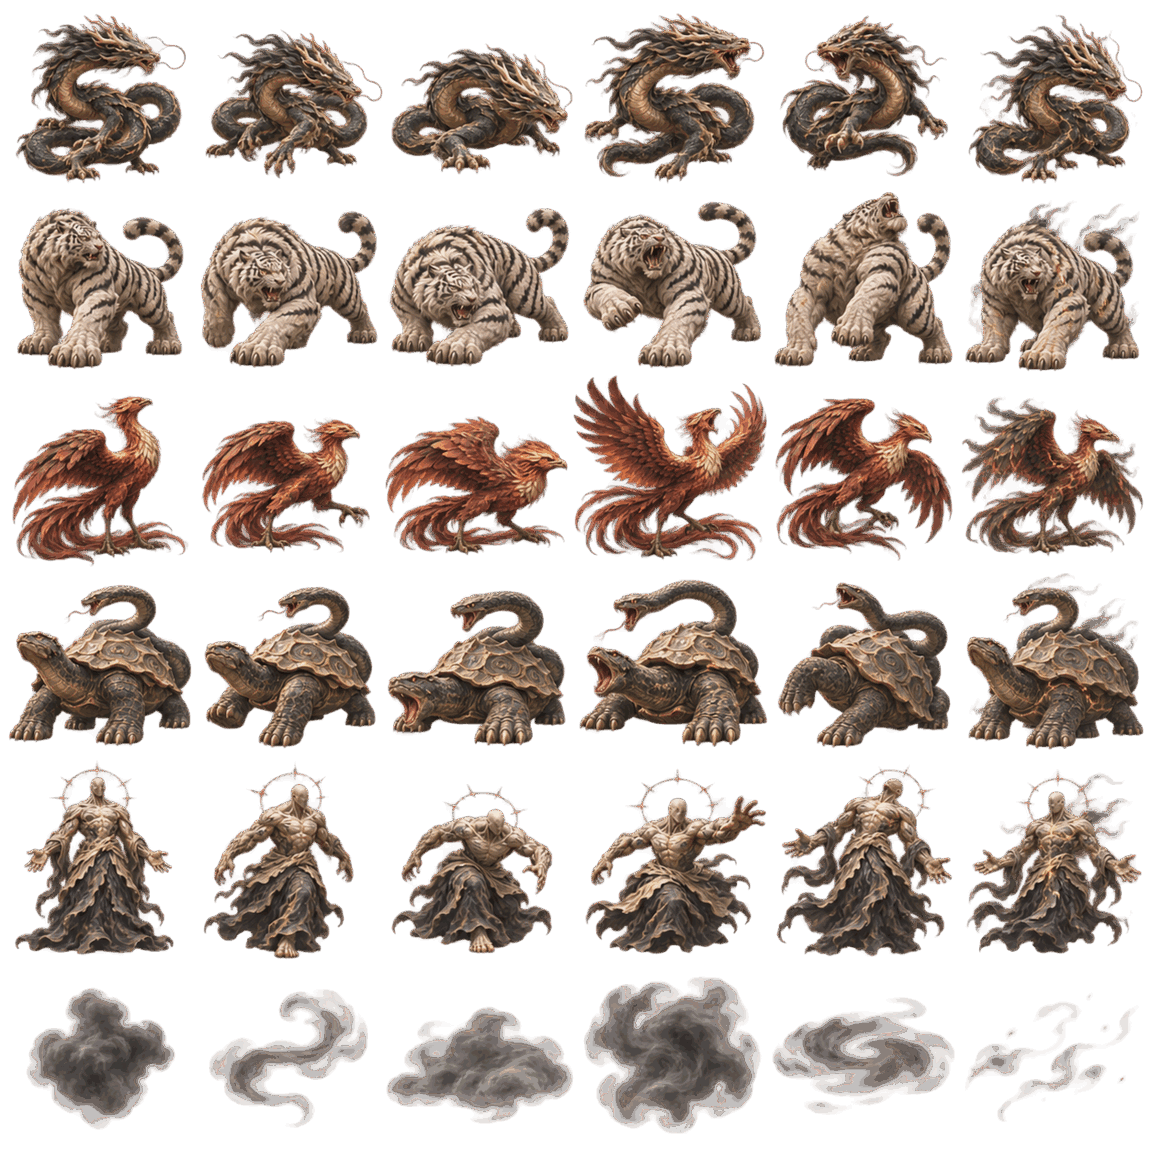
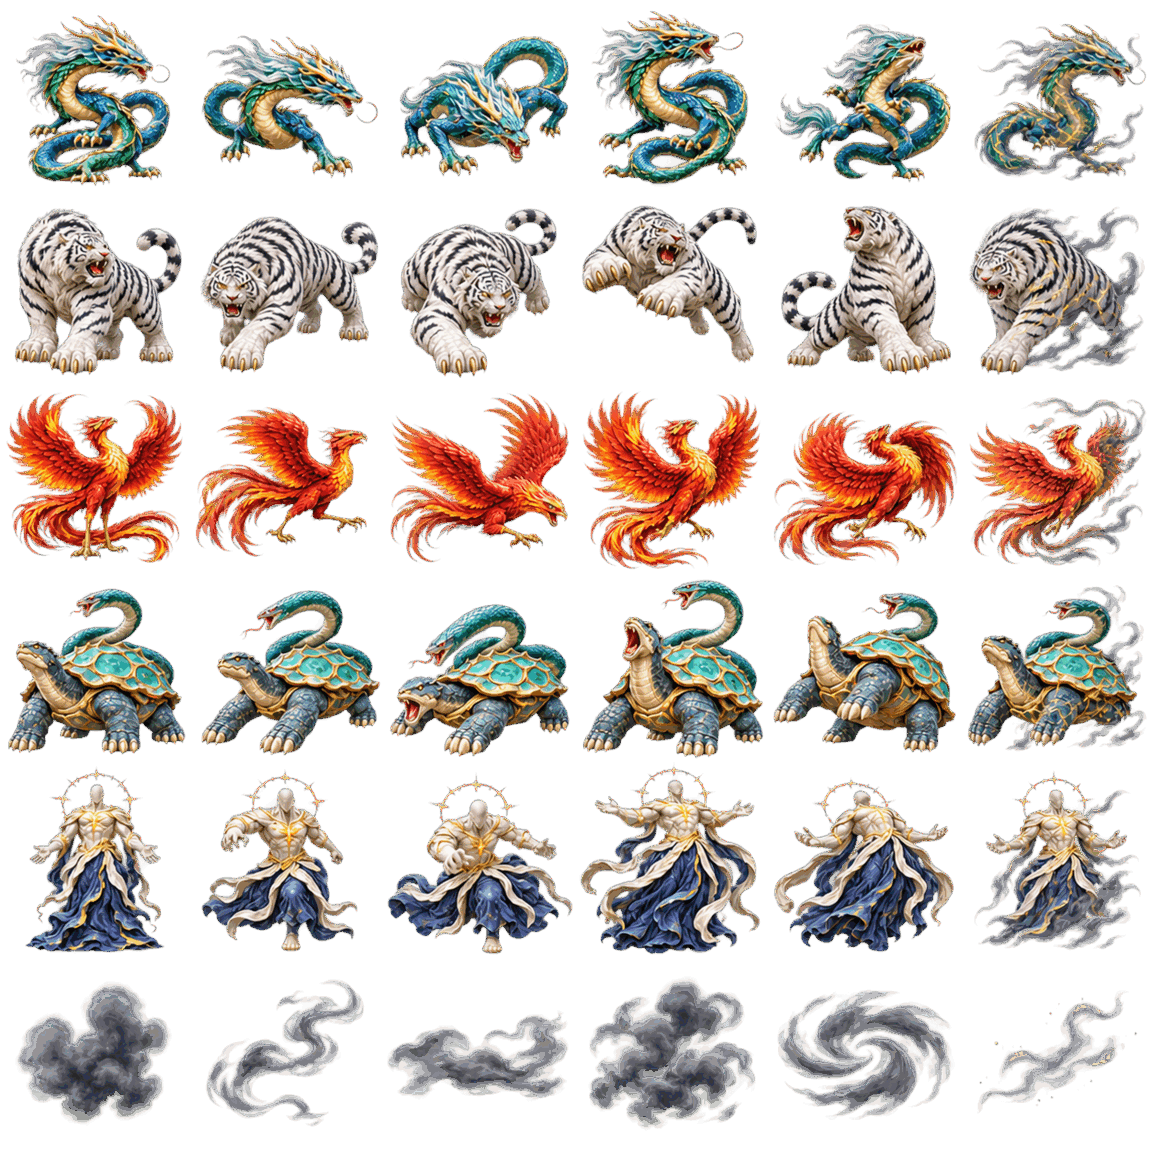
Apply vivid creature colors, growing dragon roots and phoenix meteor fire zones on codex/honghuang-boss-effects-20261106 (source only; no playtest upload)

diff --git a/game/core/combat.js b/game/core/combat.js
@@ -4,6 +4,7 @@
 const { ArtifactCombat } = require('./artifacts');
 const { BELL } = require('./bell');
 const { VINES, vineRadius } = require('./vines');
+const { METEOR, meteorPhase } = require('./meteor');
 const { advanceEnemyAnimation } = require('./enemy-animation');
 const STAGES = ['东方·初生之野', '西方·白骨战场', '南方·焚天熔界', '北方·归墟寒海', '天道之庭'];
 const BOSSES = ['青龙法相', '白虎法相', '朱雀法相', '玄武法相', '天道化身'];
@@ -25,7 +26,7 @@ const ENEMIES = [
   { id: 'charger', name: '裂界奔兽', hint: '长肢收拢蓄势，再沿锁定路线扑杀。横移躲开，趁落地停顿反击。' },
   { id: 'elite', name: '镇劫重兽', hint: '厚胸巨爪与肩部骨盾，蓄力引发落点震击。远离预警后再近身，击败得更多灵气。' },
   ...BOSSES.map((name, i) => ({ id: 'boss-' + (i + 1), name,
-    hint: ['藤蔓从落点中心向外生长，触及后短暂缠足。提前离开预警；半血后追加环形封路。', '扑杀前出现宽线预警。横向让开，半血后注意二连扑。', '火羽分批落地，离开火圈。半血后落点更多并留下火线。', '潮汐以环形扩散，向内或向外脱离。蓄力护甲结束后集中输出。', '轮换四象招式并以秩序封锁两侧。每次观察形状再寻找空隙。'][i] }))
+    hint: ['藤蔓从落点中心向外生长，触及后短暂缠足。提前离开预警；半血后追加环形封路。', '扑杀前出现宽线预警。横向让开，半血后注意二连扑。', '陨火先锁定落点，再砸地爆燃并留下燃烧区。半血后落点更多，避开火区寻找通道。', '潮汐以环形扩散，向内或向外脱离。蓄力护甲结束后集中输出。', '轮换四象招式并以秩序封锁两侧。每次观察形状再寻找空隙。'][i] }))
 ];
 const clamp = (value, min, max) => Math.max(min, Math.min(max, value));
 const round = value => Number(value.toFixed(2));
@@ -290,14 +291,14 @@ class Combat extends ArtifactCombat {
       const count = phase2 ? 5 : 3;
       for (let i = 0; i < count; i++) {
         const angle = i * Math.PI * 2 / count;
-        this.circle({ x: clamp(this.player.x + (i ? Math.cos(angle) * 115 / this.width * 100 : 0), 8, 92), y: clamp(this.player.y + (i ? Math.sin(angle) * 115 / this.height * 100 : 0), 12, 88) }, 62, 1.1 + i * 0.13, phase2 ? 3.2 : 2.4, '羽', 'flame', 11, owner);
+        this.hazard({ shape: 'circle', x: clamp(this.player.x + (i ? Math.cos(angle) * 115 / this.width * 100 : 0), 8, 92), y: clamp(this.player.y + (i ? Math.sin(angle) * 115 / this.height * 100 : 0), 12, 88), radius: 62, delay: 1.1 + i * 0.13, duration: phase2 ? 3.2 : 2.4, label: '陨', kind: 'flame', meteor: true, damage: METEOR.damage, burnDamage: METEOR.burnDamage, owner });
       }
       if (phase2) this.hazard({ shape: 'line', x: 0, y: 50, end: { x: 100, y: 50 }, width: 52, delay: 1.8, duration: 1.1, label: '焚', kind: 'flame', owner });
     } else {
       this.hazard({ shape: 'ring', x: center.x, y: center.y, radius: 225, inner: 150, delay: 1.25, duration: 1.3, label: '潮', kind: 'tide', damage: 10, owner, push: true });
       if (phase2) this.hazard({ shape: 'line', x: 0, y: this.player.y, end: { x: 100, y: this.player.y }, width: 60, delay: 1.6, duration: 1, label: '涌', kind: 'tide', owner, push: true });
     }
-    this.emit('cast', { name: e ? e.name : '劫境', pattern: ['藤蔓生长', '扑杀', '火羽落地', '潮汐扩散', '秩序封锁'][stage - 1] });
+    this.emit('cast', { name: e ? e.name : '劫境', pattern: ['藤蔓生长', '扑杀', '陨火坠地', '潮汐扩散', '秩序封锁'][stage - 1] });
   }
   contains(h, point) {
     if (h.shape === 'line') return segmentDistance(this.point(point), this.point(h), this.point(h.end)) <= h.width / 2;
@@ -324,7 +325,11 @@ class Combat extends ArtifactCombat {
             this.rootTime = VINES.bind; this.rootImmunity = VINES.immunity; this.rootSourceId = h.id; h.boundPlayer = true; this.emit('rooted');
           }
           if (h.dash) { const owner = this.enemies.find(e => e.id === h.owner); if (owner) owner.chargeHit = true; }
-          this.hurt(h.damage, h.label === '息' ? '吞灵吐息' : ({ root: '生息藤蔓', slash: '裂界扑杀', flame: '火羽焚地', tide: '归墟潮汐', order: '秩序封锁', arcane: '镇劫震击' }[h.kind] || '劫境法则'));
+          if (h.meteor) {
+            if (meteorPhase(h) === 'impact') {
+              if (!h.impactHit) { h.impactHit = true; this.hurt(h.damage, '陨火撞击'); }
+            } else this.hurt(h.burnDamage, '余烬焚地');
+          } else this.hurt(h.damage, h.label === '息' ? '吞灵吐息' : ({ root: '生息藤蔓', slash: '裂界扑杀', flame: '天火焚地', tide: '归墟潮汐', order: '秩序封锁', arcane: '镇劫震击' }[h.kind] || '劫境法则'));
           if (h.push) this.move(this.player, this.vector(h, this.player), 85 * dt);
         }
       }

diff --git a/cocos-project/assets/scripts/MeteorVfx.ts b/cocos-project/assets/scripts/MeteorVfx.ts
@@ -1,0 +1,44 @@
+import { UITransform } from 'cc';
+import { METEOR, meteorPhase } from './generated/game-core';
+const clamp = (n: number) => Math.max(0, Math.min(1, n));
+export function drawMeteor(v, layer, h, p) {
+  const g = layer.g, phase = meteorPhase(h), age = h.age - h.delay, r = h.radius;
+  const fade = phase === 'burning' ? clamp((h.delay + h.duration - h.age) / 0.3) : 1;
+  const tile = (id, index, x, y, w, height, alpha) => {
+    const sprite = v.image(layer, 'meteor-' + h.id + '-' + id, v.assets.frames.meteor[index], x, y, w, height, alpha);
+    sprite.node.getComponent(UITransform).setAnchorPoint(0.5, 0.5);
+  };
+  // The locked footprint is visible through warning, impact and burning.
+  g.lineStyle(phase === 'falling' ? 1.8 : 2.5, 0xff9e4e, fade * (phase === 'falling' ? 0.7 : 0.9)); g.drawCircle(p.x, p.y, r);
+  if (phase === 'falling') {
+    const warning = clamp(h.age / h.delay), t = clamp((warning - 0.15) / 0.85);
+    tile('target', 2, p.x, p.y, r * 1.25, r * 1.25, warning * 0.45);
+    g.lineStyle(1.5, 0xffc67a, 0.5); g.arc(p.x, p.y, r * 0.92, -Math.PI / 2, -Math.PI / 2 + Math.PI * 2 * warning);
+    if (warning > 0.15) {
+      const x = p.x + (1 - t * t) * r * 1.9, y = p.y - (1 - t * t) * r * 2.9;
+      tile('fall', 0, x + 9, y - 14, 76, 96, clamp(t * 4));
+    }
+    return;
+  }
+  const frame = Math.floor(Math.max(0, age) * 8) % 4;
+  tile('ground', 8 + frame, p.x, p.y, r * 2, r * 2, fade * (phase === 'impact' ? 0.6 : 0.95));
+  if (phase === 'impact') {
+    const t = clamp(age / METEOR.impactWindow);
+    tile('burst', 4 + Math.min(3, Math.floor(t * 4)), p.x, p.y - r * 0.25, r * 2.15, r * 2.4, 1 - t * 0.3);
+    g.lineStyle(6 * (1 - t) + 1, 0xffdf9b, (1 - t) * 0.85); g.drawCircle(p.x, p.y, Math.max(1, r * t));
+    for (let i = 0; i < 3; i++) {
+      const angle = i * Math.PI * 2 / 3 + h.id, distance = r * t * 0.65;
+      tile('debris-' + i, 3, p.x + Math.cos(angle) * distance, p.y + Math.sin(angle) * distance - Math.sin(t * Math.PI) * 24, 22, 22, (1 - t) * 0.85);
+    }
+  } else {
+    // Low, distributed flames keep the character and the whole footprint readable.
+    for (let i = 0; i < 3; i++) {
+      const angle = i * Math.PI * 2 / 3 + h.id;
+      tile('flames-' + i, 12 + (frame + i) % 4, p.x + Math.cos(angle) * r * 0.35, p.y + Math.sin(angle) * r * 0.3 - r * 0.12, r * 0.9, r * 0.6, fade * 0.65);
+    }
+    for (let i = 0; i < 6; i++) {
+      const t = (age * 0.6 + i / 6) % 1, angle = i * 2.4 + h.id;
+      g.lineStyle(0); g.beginFill(0xffb459, fade * (1 - t) * 0.6); g.drawCircle(p.x + Math.cos(angle) * r * 0.6, p.y + Math.sin(angle) * r * 0.4 - t * 24, 1.5); g.endFill();
+    }
+  }
+}

diff --git a/cocos-project/assets/scripts/GameAssets.ts b/cocos-project/assets/scripts/GameAssets.ts
@@ -1,6 +1,6 @@
 import { assetManager, AssetManager, AudioClip, ImageAsset, Rect, Size, SpriteFrame, Texture2D } from 'cc';
 import { ARTIFACT_COLUMNS } from './generated/game-core';
-const paths: Record<string, string> = { title: 'titile-bg', enemies: 'enemy-actions', bosses: 'chaos-boss-actions', spellAtlas: 'boss-actions', bell: 'chaos-bell', ending: 'ending-dawn', artifact: 'pangu/artifact-cast' };
+const paths: Record<string, string> = { title: 'titile-bg', enemies: 'enemy-actions', bosses: 'chaos-boss-actions', spellAtlas: 'boss-actions', bell: 'chaos-bell', meteor: 'phoenix-meteor', ending: 'ending-dawn', artifact: 'pangu/artifact-cast' };
 for (let i = 1; i <= 5; i++) { paths['arena' + i] = 'arena-' + i; paths['boss' + i] = 'boss-' + i; }
 for (const kind of ['power', 'haste', 'health', 'fire', 'water', 'earth']) paths['upgrade-' + kind] = 'upgrade-' + kind;
 for (const action of ['idle', 'move', 'attack', 'hurt', 'awaken', 'death']) paths[action] = 'pangu/' + action;
@@ -9,7 +9,7 @@ export function frame(texture: Texture2D, rect?: Rect) {
 }
 export async function loadAssets(progress: (value: number) => void = () => {}) {
   const bundle = await new Promise<AssetManager.Bundle>((resolve, reject) => assetManager.loadBundle('game-content', (error, value) => error ? reject(error) : resolve(value)));
-  const textures: Record<string, SpriteFrame> = {}, frames: any = { artifact: {}, enemies: [], bosses: [], spells: [], chaosMist: [], bell: [] }, audio: Record<string, AudioClip> = {};
+  const textures: Record<string, SpriteFrame> = {}, frames: any = { artifact: {}, enemies: [], bosses: [], spells: [], chaosMist: [], bell: [], meteor: [] }, audio: Record<string, AudioClip> = {};
   const sounds = ['attack', 'bell', 'echo', 'banner', 'dominion', 'rift', 'ready', 'warning', 'hurt', 'upgrade', 'victory', 'death'];
   let done = 0; const total = Object.keys(paths).length + sounds.length;
   await Promise.all(Object.entries(paths).map(async ([key, file]) => {
@@ -34,5 +34,6 @@ export async function loadAssets(progress: (value: number) => void = () => {}) {
   }
   for (let column = 0; column < 6; column++) frames.spells.push(frame(textures.spellAtlas.texture, new Rect(column * 128, 5 * 128, 128, 128)));
   for (let row = 0; row < 4; row++) for (let column = 0; column < 4; column++) frames.bell.push(frame(textures.bell.texture, new Rect(column * 192, row * 192, 192, 192)));
+  for (let row = 0; row < 4; row++) for (let column = 0; column < 4; column++) frames.meteor.push(frame(textures.meteor.texture, new Rect(column * 192, row * 192, 192, 192)));
   return { textures, frames, audio, bundle };
 }

diff --git a/cocos-project/assets/scripts/HazardVfx.ts b/cocos-project/assets/scripts/HazardVfx.ts
@@ -1,18 +1,20 @@
 import { UITransform } from 'cc';
 import { drawRootHazard } from './VineVfx';
+import { drawMeteor } from './MeteorVfx';
 const clamp = (n: number, a = 0, b = 1) => Math.max(a, Math.min(b, n));
 const COLORS = { root: 0xa5d46d, flame: 0xff9446, tide: 0x8edbea, slash: 0xffd17e, order: 0xd3a6ff, arcane: 0xbba8fa, rift: 0xb9efdc, lava: 0xe1a05c, mud: 0x8db6a4, confluence: 0xc8c887 };
 // Pictures supply the spell identity. Exact circles/rings/capsules remain the
 // damage boundary; every animation reads hazard.age, never wall-clock time.
 export function drawHazard(v: any, layer: any, h: any, point: (p: any) => any) {
+  if (h.meteor) { drawMeteor(v, layer, h, point(h)); return; }
   if (h.kind === 'root') { drawRootHazard(v, layer, h, point(h)); return; }
   const g = layer.g, p = point(h), color = COLORS[h.kind] || 0xe3c88b;
   const active = h.age >= h.delay, age = Math.max(0, h.age - h.delay), warning = clamp(h.age / Math.max(0.001, h.delay));
   const pulse = 0.65 + Math.sin(h.age * 8) * 0.2;
   const alpha = h.friendly ? 0.1 : active ? 0.18 : 0.04 + warning * 0.07;
   const key = 'spell-' + h.id + '-';
-  const spell = (id: string, index: number, x: number, y: number, w: number, height: number, opacity: number, angle = 0) => {
-    const sprite = v.image(layer, key + id, v.assets.frames.spells[index], x, y, w, height, opacity);
+  const spell = (id: string, index: number, x: number, y: number, w: number, height: number, opacity: number, angle = 0, atlas = v.assets.frames.spells) => {
+    const sprite = v.image(layer, key + id, atlas[index], x, y, w, height, opacity);
     sprite.node.getComponent(UITransform).setAnchorPoint(0.5, 0.5); sprite.node.angle = -angle;
   };
   const capsule = (q: any) => {
@@ -51,7 +53,7 @@ export function drawHazard(v: any, layer: any, h: any, point: (p: any) => any) {
       const count = Math.min(14, Math.max(3, Math.ceil(length / 90)));
       for (let i = 0; i < count; i++) {
         const t = (i + 0.5) / count;
-        spell('fire-' + i, 0, p.x + dx * t, p.y + dy * t - Math.sin(age * 10 + i) * 4, h.width * 0.8, h.width * 1.5, 0.85);
+        spell('fire-' + i, h.kind === 'flame' ? 12 + i % 4 : 0, p.x + dx * t, p.y + dy * t - Math.sin(age * 10 + i) * 3, h.width * 1.5, h.width * 0.9, 0.85, 0, h.kind === 'flame' ? v.assets.frames.meteor : v.assets.frames.spells);
       }
     } else if (h.kind === 'tide') {
       for (let i = 0; i < 8; i++) {

diff --git a/cocos-project/assets/scripts/VineVfx.ts b/cocos-project/assets/scripts/VineVfx.ts
@@ -5,6 +5,7 @@ const clamp = (n: number) => Math.max(0, Math.min(1, n));
 function canvas(v, layer, id, p) {
   const node = v.use(layer, id, () => { const n = v.makeNode(id); n.addComponent(Graphics); return n; });
   node.setPosition(p.x, -p.y);
+  node.setSiblingIndex(id.startsWith('vines-') ? 0 : layer.node.children.length - 1);
   const g: DrawList = (node as any).vineDraw || ((node as any).vineDraw = new DrawList(node.getComponent(Graphics))); g.clear();
   return g;
 }

diff --git a/game/core/meteor.js b/game/core/meteor.js
@@ -1,0 +1,4 @@
+'use strict';
+const METEOR = { impactWindow: 0.28, damage: 11, burnDamage: 4 };
+function meteorPhase(h) { return h.age < h.delay ? 'falling' : h.age < h.delay + METEOR.impactWindow ? 'impact' : 'burning'; }
+module.exports = { METEOR, meteorPhase };

diff --git a/docs/PHOENIX-METEOR.md b/docs/PHOENIX-METEOR.md
@@ -1,0 +1,11 @@
+# 朱雀：陨火锁地 → 砸地爆燃 → 余烬焚地
+
+将朱雀原来的落地火羽改为带火尾的实体陨石。保留固定落点的圆形预警（基础1.1秒，连续落点每次错开0.13秒），陨石由斜上方向目标加速坠落。落点在预警出现时锁定，不追随人物。
+
+激活后前0.28秒是撞击窗口：爆燃、低伏冲击环、短促碎石飞散，每颗陨石对人物最多结算一次11点撞击伤害。之后是持续燃烧阶段，以焦岩、熔火裂隙和遍布区域内部的低火焰表现；进入火区受到4点灼烧伤害，遵守既有受击无敌间隔。错过撞击后进入火区不会补算撞击伤害。
+
+基础3处落点，二阶段5处，燃烧区持续2.4/3.2秒；火区之间可绕行。二阶段火线保留，视觉改为低矮火焰簇。危险区范围与原圆形/线形碰撞保持一致，边界贯穿预警、撞击与燃烧过程。来源死亡、换境和重开清理危险区；暂停及弹层冻结全部阶段。
+
+`phoenix-meteor.png` 为4×4图集、768×768，单帧192：第一行陨石/火尾/目标余光/碎石，第二行四帧爆燃，第三行四帧地表燃烧，第四行四帧低火焰。`MeteorVfx.ts` 管理显示，`game/core/meteor.js` 统一撞击窗口和阶段划分。
+
+检查覆盖预警无伤、撞击去重、持续火区、离开避伤、错过撞击后入场、暂停及完整通关。Creator浏览器检查脚本追加两种屏幕尺寸下的预警、坠落、撞击、燃烧、消散截图场景；本次仅提交源码与素材，不执行耗时的正式Creator导出和微信上传。

diff --git a/docs/HONGHUANG-ART.md b/docs/HONGHUANG-ART.md
@@ -16,3 +16,7 @@
 运行素材由 imagegen 按确认的设定生成。缩放后规范化近零/近不透明 alpha，并使用 PaletteAlpha 编码保留透明边缘的连续层次；不使用会丢弃渐变透明度的强制 PNG8 或强制无 alpha 的索引编码。运行素材总量控制在3.5MiB内，为4MiB资源分包留出余量；最终以 Creator 导出预算检查为准。
 
 验证保留普通血量通关、密集群怪、首领招式和化雾结算；正式 Creator Web 在两种屏幕尺寸下验证九种怪物各生命周期，以及混沌钟实体 Sprite、192像素切片、16帧轮转、不透明显示与居中音波。最后人工抽查实际导出截图。
+
+## 鲜明本色版本
+
+小怪分别采用赤褐血肉/浅腹、孔雀青背/青碧喉囊、靛蓝肌肉/象牙骨片、暗红厚躯/金赭骨盾；四象和天道采用苍青金鳞、黑白虎纹、朱红金羽、墨玉青甲、白玉深蓝。颜色落在实体材质的大色块上，避免统一灰褐调。帧数、角色ID和192像素切片约定保留。首领图集去除生成素材中残留的半透明浅色底，不以浅色矩形覆盖战场。

diff --git a/art/chaos-creatures/README.md b/art/chaos-creatures/README.md
@@ -7,7 +7,7 @@
 - 生物六列：站立、移动、蓄势、攻击、受击、形体失稳。受击姿态优先，预警与攻击姿态由真实危险区时间驱动。
 - 原 `boss-actions.png` 继续提供技能纹理；不改既有藤蔓、扑杀、火羽、潮汐等危险区形状和命中时机。
 
-素材由 imagegen 依照已确认的设定图制作，再进行机械缩放和 保留渐变透明度的调色板压缩。普通怪图集约 230 KiB，新首领与雾气图集约 442 KiB；使用真实 alpha 透明背景。高分辨率生成源保留在本次工作区的 `generated_images`，不作为微信运行资源加载。
+素材由 imagegen 依照已确认的设定图制作，再进行机械缩放和 保留渐变透明度的调色板压缩。普通怪图集约 197 KiB，新首领与雾气图集约 388 KiB；使用真实 alpha 透明背景。高分辨率生成源保留在本次工作区的 `generated_images`，不作为微信运行资源加载。
 
 ## 生命周期
 
